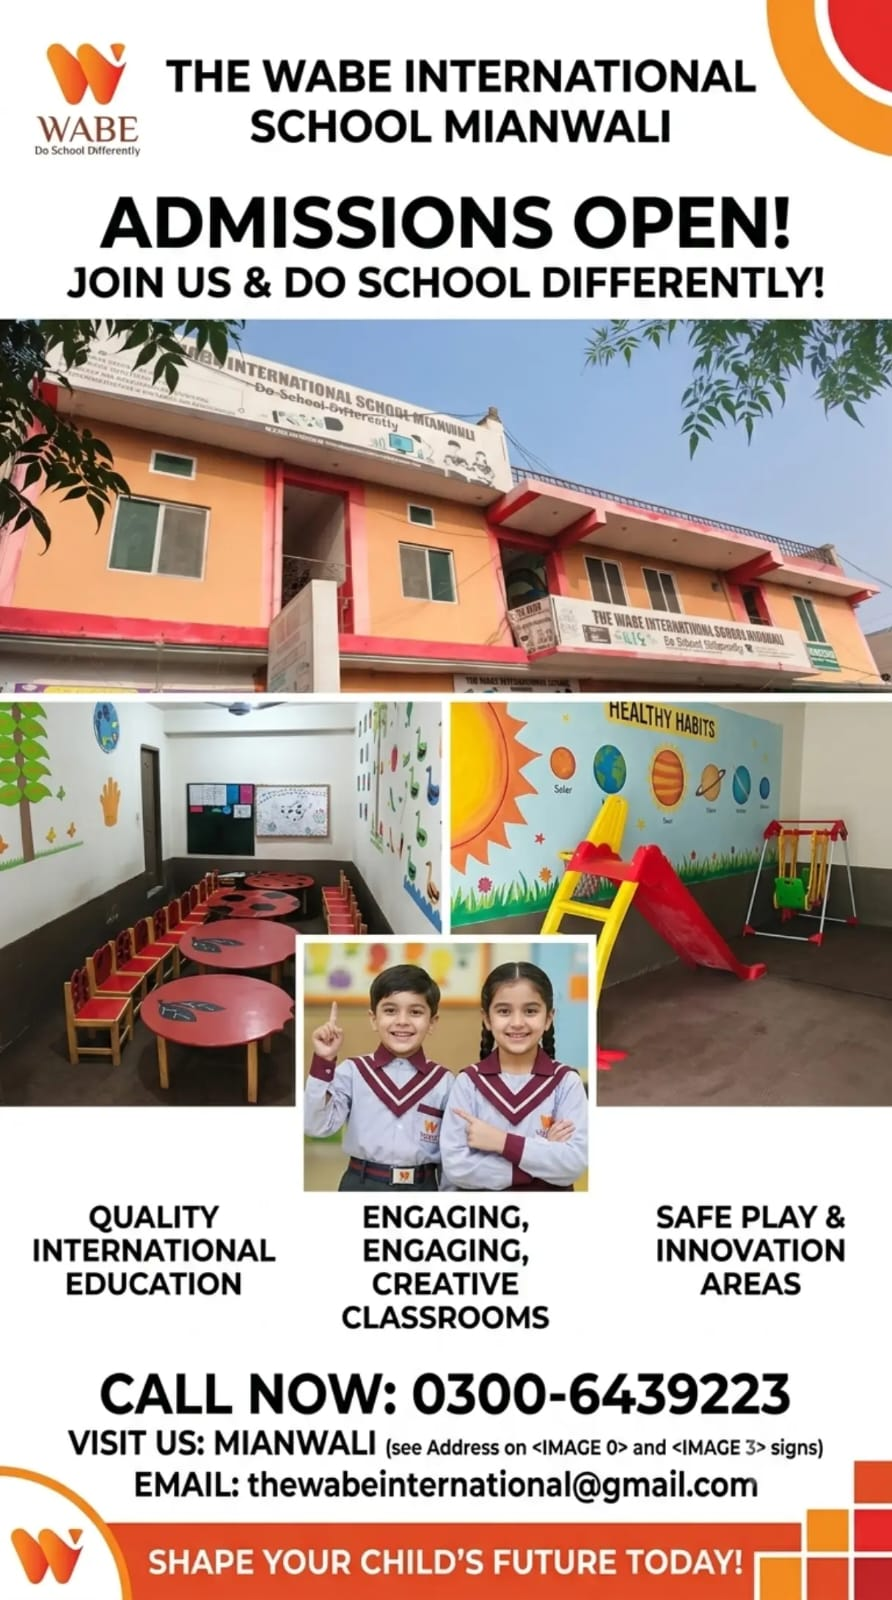
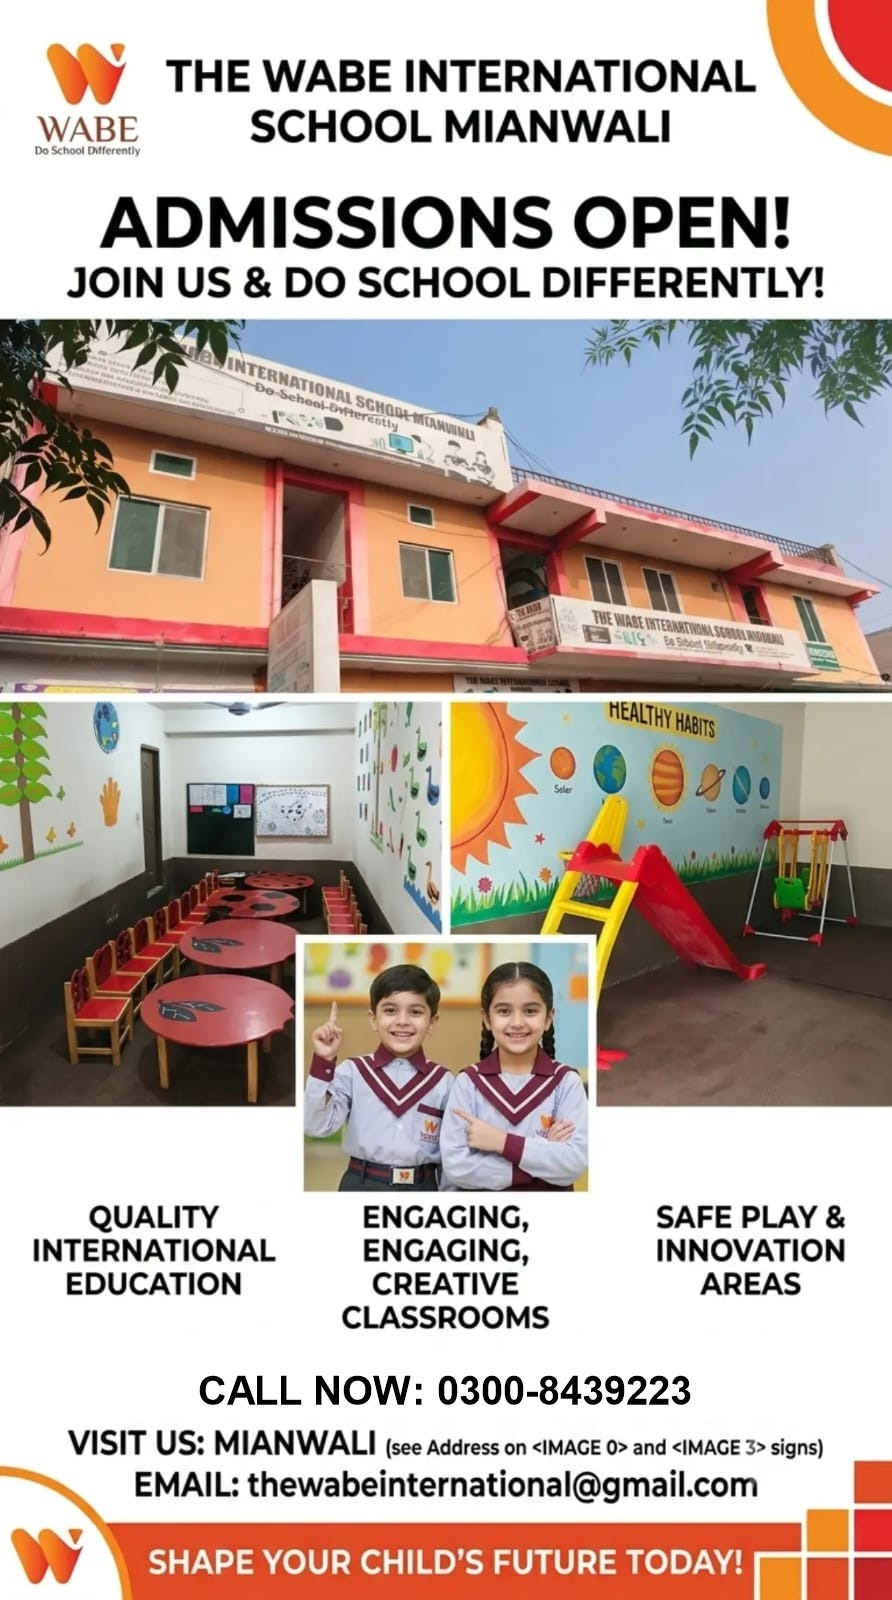
Fix phone number on admissions flyer, slow scale-up popup animation
- Patched the flyer image: "CALL NOW" number corrected from
  0300-6439223 to 0300-8439223 (matching the school's real number)
- Popup animation changed from a quick fade to a slower (1.1s),
  pure scale-from-small-to-large entrance with no opacity/rotation

Changed region(s): [[0.0908, 0.8438, 0.8778, 0.9062]]

diff --git a/public/css/components.css b/public/css/components.css
@@ -532,7 +532,6 @@ table.data-table tbody tr:hover {
   justify-content: center;
   z-index: 200;
   padding: 20px;
-  animation: popupFadeIn 0.4s ease-out;
 }
 .admissions-popup-overlay[hidden] {
   display: none;
@@ -546,25 +545,15 @@ table.data-table tbody tr:hover {
   overflow: hidden;
   box-shadow: var(--shadow-md);
   background: var(--white);
-  animation: popupOpen 0.45s cubic-bezier(0.22, 1, 0.36, 1);
-  transform-origin: top center;
-}
-@keyframes popupFadeIn {
-  from {
-    opacity: 0;
-  }
-  to {
-    opacity: 1;
-  }
+  animation: popupOpen 1.1s cubic-bezier(0.34, 1.56, 0.64, 1);
+  transform-origin: center center;
 }
 @keyframes popupOpen {
   from {
-    opacity: 0;
-    transform: scale(0.9) translateY(-24px) rotateX(8deg);
+    transform: scale(0.1);
   }
   to {
-    opacity: 1;
-    transform: scale(1) translateY(0) rotateX(0);
+    transform: scale(1);
   }
 }
 .admissions-popup-box img {
